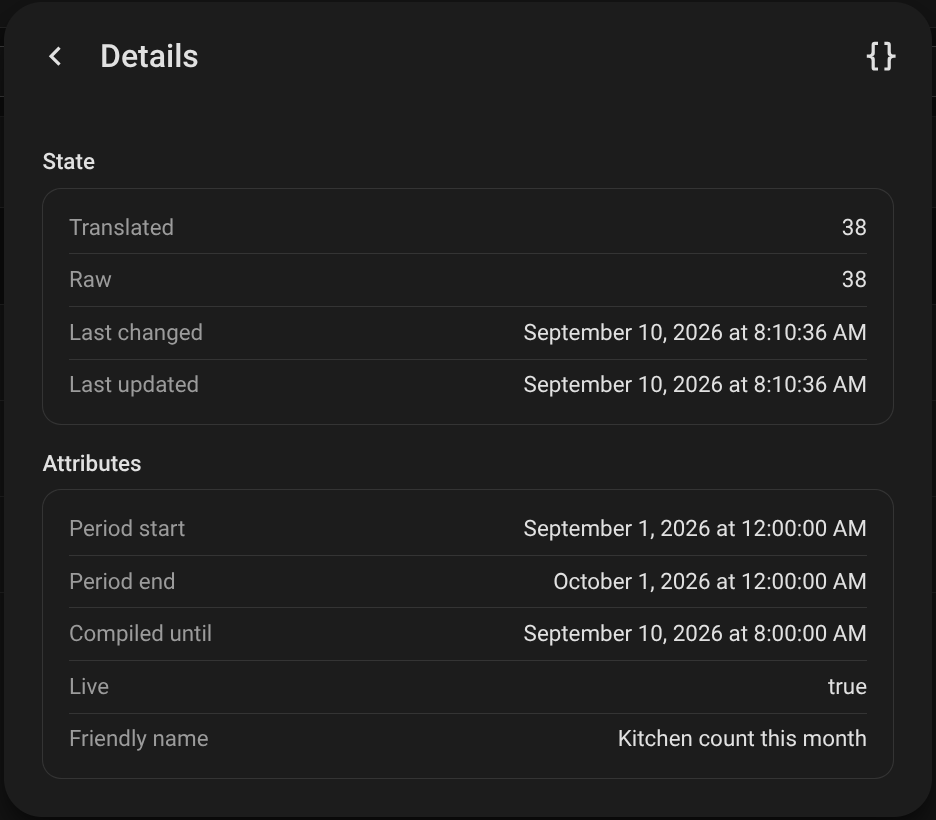
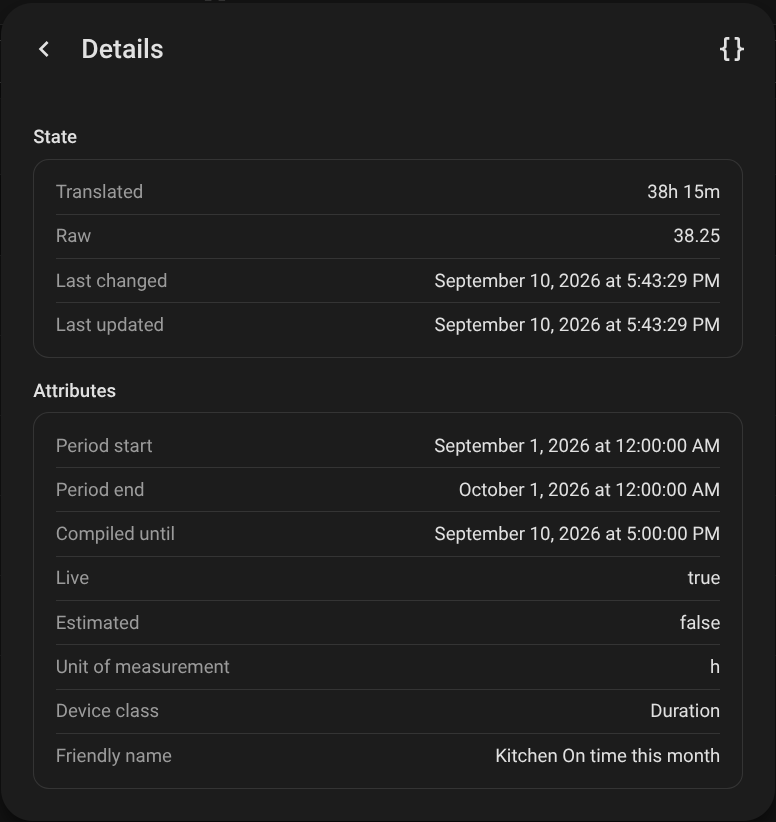
Show the period choices and the custom window in the README

diff --git a/README.md b/README.md
@@ -584,6 +584,9 @@ for the entity and choose **Add sensor**:
   midnight in Home Assistant's own time zone. Or the last hour, 24 hours,
   7, 30 or 365 days, ending now — exactly that long, across a clock change
   too. Or *Custom*, for a window the section below describes.
+
+  ![The Period dropdown open: the nine calendar periods, then Last hour, Last 24 hours, Last 7 days, Last 30 days, Last 365 days and Custom](https://raw.githubusercontent.com/exciton/discrete-statistics/main/docs/images/sensor-dialog-period-options.png)
+
 - **Custom period** — a folded section with **Start**, **End** and
   **Duration**. Fill in any two, or Start alone to run to now. Start and
   End are templates that render to a date and time —
@@ -594,6 +597,9 @@ for the entity and choose **Add sensor**:
   render makes the sensor `unavailable`, with the error in the log. A
   window whose end is not after its start when it is rendered holds no
   time, so a time or count sensor over it reads `0.0`.
+
+  ![The dialog with Period set to Custom and the Custom period section open: a Start template of today_at('09:00'), an empty End, and a Duration of eight hours](https://raw.githubusercontent.com/exciton/discrete-statistics/main/docs/images/custom-period.png)
+
 - **Name** — optional; the default is made from the entity, the states,
   the measure and the period, "Front Door open time this month".
 - **Include the current hour** — statistics are compiled hourly. On, the
@@ -606,7 +612,7 @@ for the entity and choose **Add sensor**:
   ending at the last compiled hour and moving only when a compile does,
   so it never includes an estimated end.
 
-![The Add a period sensor dialog: a States picker with On chosen, the Measure and Period dropdowns, the Name box showing the composed name greyed out, and the Include the current hour switch](https://raw.githubusercontent.com/exciton/discrete-statistics/main/docs/images/sensor-dialog.png)
+![The period sensor dialog: a States picker with On chosen, the Measure and Period dropdowns, the folded Custom period section, the Name box showing the composed name greyed out, and the Include the current hour switch](https://raw.githubusercontent.com/exciton/discrete-statistics/main/docs/images/sensor-dialog.png)
 
 **Part hours.** The statistics are hourly, and a rolling or custom window
 usually starts or ends part-way through an hour. That hour is read
@@ -642,7 +648,7 @@ share of that month. A sensor whose states are all ignored by the entry,
 or whose entity has no statistics yet, is `unavailable`, with the reason in
 the log — as is a custom sensor whose templates do not render.
 
-![A count sensor's details: state 38, with Period start, Period end, Compiled until and Live attributes](https://raw.githubusercontent.com/exciton/discrete-statistics/main/docs/images/sensor-details.png)
+![A time sensor's details: 38 h 15 m this month, with Period start, Period end, Compiled until, Live and Estimated attributes](https://raw.githubusercontent.com/exciton/discrete-statistics/main/docs/images/sensor-details.png)
 
 **Count.** A count is the number of changes *into* the states inside the
 period, as the statistics record them. A spell already in progress when
